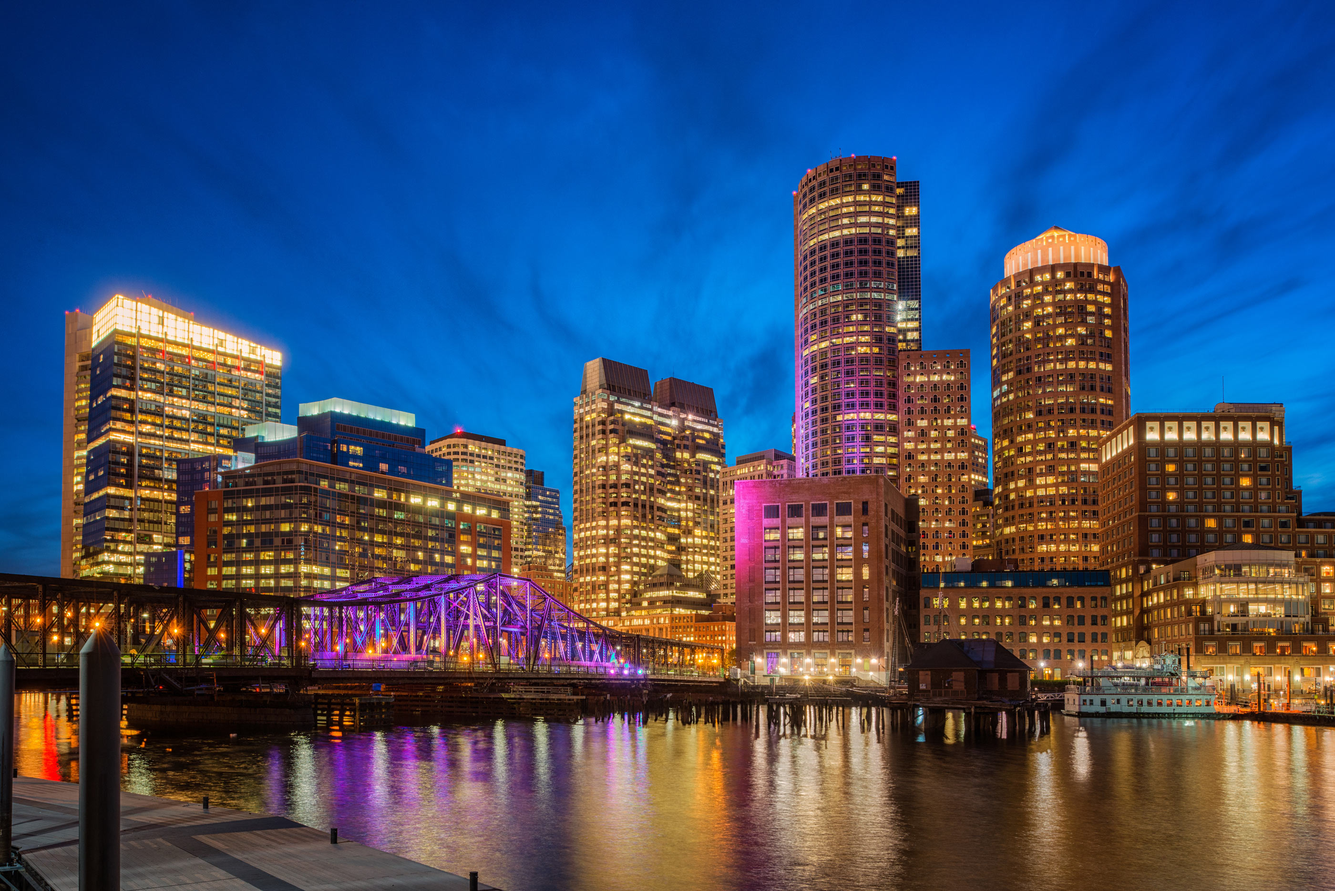
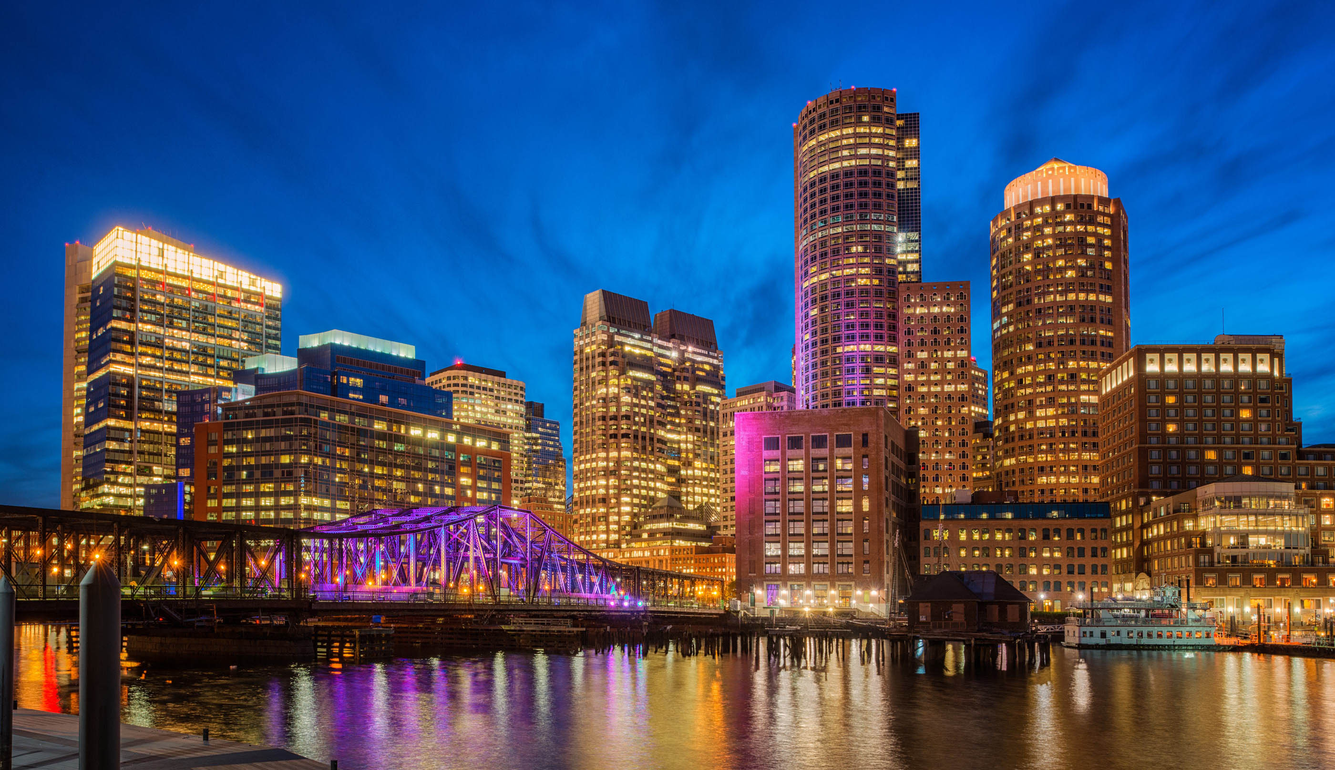
paralax fix

diff --git a/app/index.html b/app/index.html
@@ -20,7 +20,7 @@
 						<a data-smooth="smooth" class="nav-link" href="#speakers">Speakers</a>
 					</li>
 					<li class="nav-item">
-						<a data-smooth="smooth" class="nav-link" href="#schedule">Agenda</a>
+						<a data-smooth="smooth" class="nav-link" href="#agenda">Agenda</a>
 					</li>
 					<li>
 						<a class="navbar-brand pull-sm-right m-r-0 hidden-xs-down" href="#"><img src="./img/iconic-logo.png"></a>
@@ -30,8 +30,8 @@
 		</div>
 	</nav><!-- /.navbar -->
 	<div class="banner">
-		<div class="jumbotron jumbotron-fluid bg-info text-xs-center">
-			<div class="container">
+		<div class="bg-info text-xs-center ">
+			<div class="container bg-padding">
 				<img class="header-img text-xs-center" src="img/cnbc-iconic.png"/>
 				<div class="row">
 					<div class="btn-group m-t-3" role="group" aria-label="Basic example">
@@ -39,7 +39,7 @@
 					</div>	
 				</div>
 			</div>
-			<h3 class="m-t-2 innovate boston-virtual">innovate | inspire | ignite</h3>
+			<h3 class="m-t-2 m-b-0 innovate boston-virtual">innovate | inspire | ignite</h3>
 		</div>
 	</div>
 	<div class="fluid-container t-mobile-bar"><img src="https://presentations.inxpo.com/FileLibrary/2535/14/t-mobile-narrow.jpg" class="t-mobile-img"></div>	
@@ -75,7 +75,7 @@
 			  <div class="card-deck">
 			  	<div class="col-md-8 col-md-offset-2 p-l-0 p-r-0 m-b-2">
 			  		<div class="card">
-			      <img class="card-img-top img-fluid" src="https://placehold.it/710x405/222" alt="Card image cap">
+			      <img class="card-img-top img-fluid" src="https://placehold.it/708x404/222" alt="Card image cap">
 			      <div class="card-block">
 			        <h4 class="card-title">Lorem Ipsum</h4>
 			        <p class="card-text minimize more">Lorem ipsum dolor sit amet, consectetur adipisicing elit, sed do eiusmod
@@ -236,7 +236,7 @@
 	<div class="container">
 		<div class="row col-xs-12 no-padding-xs">
 			<!-- schedule -->
-			<h1 id="schedule" class=" display-4 text-xs-center text-muted">Agenda</h1>
+			<h1 id="agenda" class=" display-4 text-xs-center text-muted">Agenda</h1>
 			<p class="text-xs-center lead">Mark your calendar for the speakers that you would like to hear from</p>
 			<ul class="list-group">
 				<li class="list-group-item list-group-item-info">
@@ -331,7 +331,7 @@
 						<h4 class="modal-title text-xs-center">Register today for FREE and up your small business game by hearing insights LIVE from influential business leaders.</h4>
 					</div>
 					<!-- <iframe id="QRegFrame"frameborder="0" src="https://vts.inxpo.com/scripts/Server.nxp?LASCmd=AI:4;F:APIUTILS!51004&PageID=2C78C654-F796-4301-B55A-9E9D92D63196" width="500" height="1000" scrolling="no"></iframe> -->
-					<iframe id="QRegFrame"frameborder="0" src="https://vts.inxpo.com/Launch/QReg.htm?ShowKey=27032&GroupID=microsite" width="300" height="1000" scrolling="no"></iframe>
+					<iframe id="QRegFrame"frameborder="0" src="https://vts.inxpo.com/Launch/QReg.htm?ShowKey=27032&GroupID=microsite" width="295" height="1000" scrolling="no"></iframe>
 				</div><!-- /.modal-content -->
 			</div><!-- /.modal-dialog -->
 		</div><!-- /.modal -->		

diff --git a/app/css/main.css b/app/css/main.css
@@ -79,10 +79,12 @@ Top Banner
 .bg-info {
     background:linear-gradient(rgba(0, 121 ,193 , .625), rgba(0, 121 ,193 , .625)), url("../img/banner.jpg"); 
     background-color: rgba(25, 159, 206, 0.75);
-    background-position: 60% 60%;
     background-size: cover;
     background-repeat: no-repeat;
     background-attachment: fixed; 
+    background-position: 60% 91%;
+    padding: 4.5rem 0 .5rem;
+    
 }
 .register-now{
   background: #e11075;
@@ -90,10 +92,6 @@ Top Banner
 .row {
     margin-right: 0;
     margin-left: 0;
-}
-.jumbotron {
-  padding: 4.5rem 0 .5rem;
-  margin-bottom: 0;
 }
 .innovate{
   color: #000;
@@ -317,9 +315,6 @@ Responsive layout
     .t-mobile-logo {
       top: -270px;
     }
-    .jumbotron {
-      padding: 4rem 1rem;
-    }
 }
 @media (min-width: 320px) and (max-width: 465px) {
     .t-mobile-logo {
@@ -339,7 +334,6 @@ Responsive layout
       padding-left: 0!important;
     }
     .jumbotron {
-      padding: 4rem 2rem;
       margin-bottom: 0;
     }
     .btn-group-lg>.btn, .btn-lg{
